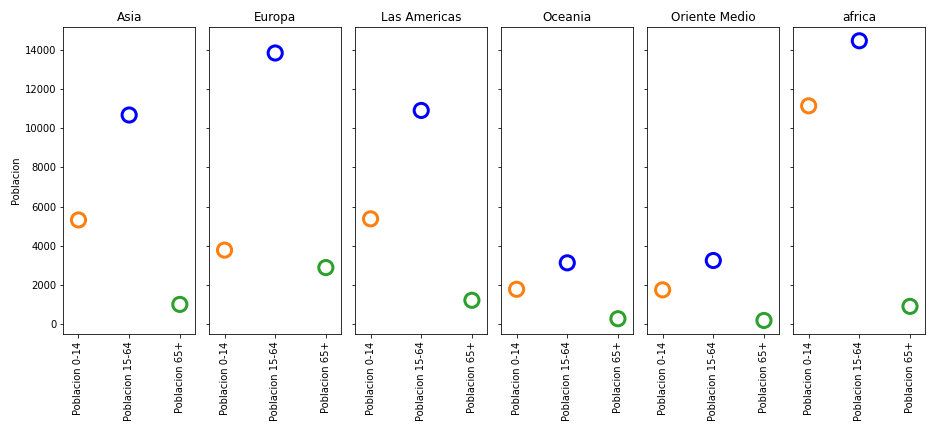
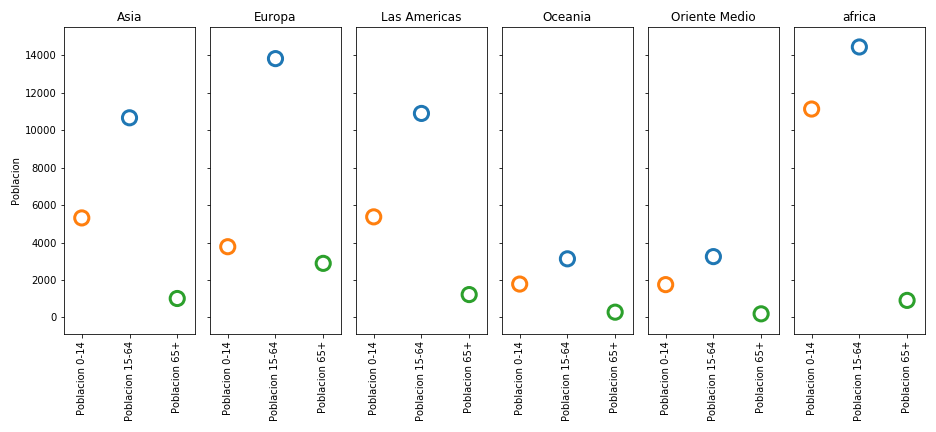
Matplotlib casi completos

diff --git a/05-matplotlib/q03/question.py b/05-matplotlib/q03/question.py
@@ -12,3 +12,29 @@
 ##
 ##  >>> Escriba su codigo a partir de este punto <<<
 ##
+
+import pandas as pd
+import matplotlib.pyplot as plt 
+
+
+data = pd.read_csv('data.csv')
+df_melt = data.melt(id_vars=["Region"], var_name="Ranges", value_name="Value")
+
+fig, axs = plt.subplots(3, 1, figsize=(8,10), dpi=72, sharex=True, facecolor='white', linewidth = 3)
+plt.subplots_adjust(hspace=0.01, wspace=0.01)
+color=['tab:orange','tab:blue','tab:green']
+idx_color = 0
+
+for index, ranges in enumerate(df_melt.Ranges.unique()):
+    df_plot = df_melt[df_melt.Ranges == ranges]
+    axs[index].bar(df_plot.Region, df_plot.Value, color=color[idx_color])
+    axs[index].tick_params(axis='x', rotation=90)
+    axs[index].spines['top'].set_visible(False)
+    axs[index].spines['left'].set_visible(False)
+    axs[index].spines['right'].set_visible(False)
+    idx_color += 1
+    axs[index].set_ylabel(ranges)
+
+plt.tight_layout()
+
+fig.savefig("generada.png", dpi=72)

diff --git a/05-matplotlib/q01/question.py b/05-matplotlib/q01/question.py
@@ -12,3 +12,22 @@
 ##
 ##  >>> Escriba su codigo a partir de este punto <<<
 ##
+import pandas as pd
+import matplotlib.pyplot as plt
+
+data = pd.read_csv('data.csv', sep=',', index_col='Region')
+
+fig, axs = plt.subplots(nrows=1, ncols=6,  figsize=(13,6), dpi =72, sharey=True)
+fig.subplots_adjust(hspace=0.1, wspace=0.05)
+
+for x, y  in list(enumerate(data.index)):
+  axs[x].scatter(range(3), data.loc[y], color=['tab:orange', 'tab:blue', 'tab:green'], facecolors='none', linewidth = 3, s=200)
+  axs[x].set_title(y)
+  axs[x].set_xticks(range(3))
+  axs[x].set_xticklabels(data.columns, rotation='vertical')
+  axs[x].margins(x=0.15, y=0.05) 
+
+axs[0].set_ylabel('Poblacion')
+fig.tight_layout()
+
+plt.savefig('generada.png', dpi=72)

diff --git a/05-matplotlib/q02/question.py b/05-matplotlib/q02/question.py
@@ -12,3 +12,22 @@
 ##
 ##  >>> Escriba su codigo a partir de este punto <<<
 ##
+import numpy as np
+import pandas as pd
+import matplotlib.pyplot as plt
+data = pd.read_csv('data.csv', sep=',', index_col='Region')
+
+fig, axs = plt.subplots(nrows=1, ncols=6,  figsize=(13,6), dpi =72, sharey=True)
+fig.subplots_adjust(hspace=0.1, wspace=0.05)
+
+for x, y  in list(enumerate(data.index)):
+  axs[x].bar(range(3), data.loc[y], color=['tab:orange', 'tab:blue', 'tab:green'])
+  axs[x].set_title(y)
+  axs[x].set_xticks(range(3))
+  axs[x].set_xticklabels(data.columns, rotation='vertical')
+  axs[x].margins(x=0.05, y=0.05) 
+
+axs[0].set_ylabel('Poblacion')
+fig.tight_layout()
+
+plt.savefig('generada.png')
